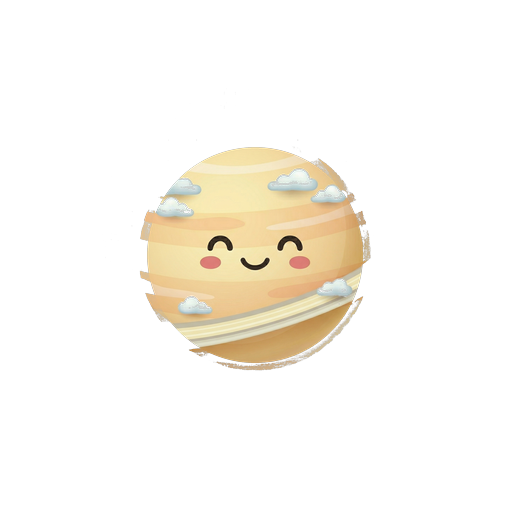
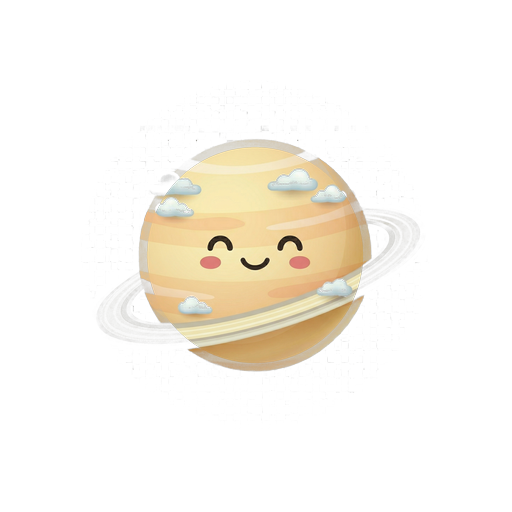
fix(assets): restore saturn and uranus rings via per-asset clean threshold
clean_image() was zeroing all pixels with alpha < 200, silently erasing
the semi-transparent ring structure on Saturn (alpha 3–12 beyond disc edge)
and Uranus (alpha 6–25). Introduced RINGED_PLANETS constant so bake_sprites
skips the alpha-scrub for these two assets while keeping threshold=200 for
all disc-only planets. Baked PNGs regenerated: saturn ~88KB→164KB, uranus
~83KB→146KB, confirming ring pixels are now preserved.

Fixes #293

diff --git a/frontend/scripts/bake_sprites.py b/frontend/scripts/bake_sprites.py
@@ -41,6 +41,11 @@ ASSETS_DIR = FRONTEND_DIR / "assets"
 # At runtime: ctx.drawImage(baked, cx-clipR, cy-clipR, clipR*2, clipR*2)
 HALF = 256  # half-size of each baked PNG (pixels)
 
+# Ringed planets have semi-transparent ring pixels (alpha 3–25) well beyond
+# the disc edge.  Skipping clean_image for these preserves the ring structure
+# without affecting disc-only assets.
+RINGED_PLANETS: frozenset[str] = frozenset({"saturn", "uranus"})
+
 THEMES = [
     {
         "id": "fruits",
@@ -61,21 +66,23 @@ THEMES = [
 # Helpers
 # ---------------------------------------------------------------------------
 
-def clean_image(img: Image.Image) -> Image.Image:
-    """Zero RGBA for pixels with alpha < 200 — mirrors runtime cleanImage().
+def clean_image(img: Image.Image, threshold: int = 200) -> Image.Image:
+    """Zero RGBA for pixels with alpha < threshold — mirrors runtime cleanImage().
 
     Scrubs JPEG compression halos and semi-transparent fringe so baked edges
-    stay crisp.  The saturn/uranus ring body pixels are fully opaque (alpha
-    255) and survive this threshold; only their feathered anti-alias edge
-    pixels are zeroed, which is acceptable.
+    stay crisp.  Pass threshold=0 for ringed planets (Saturn, Uranus) to
+    preserve their semi-transparent ring pixels, which have alpha values as
+    low as 3–25 well beyond the disc edge.
     """
+    if threshold == 0:
+        return img.convert("RGBA")
     img = img.convert("RGBA")
     pixels = img.load()
     w, h = img.size
     for y in range(h):
         for x in range(w):
             r, g, b, a = pixels[x, y]
-            if a < 200:
+            if a < threshold:
                 pixels[x, y] = (0, 0, 0, 0)
     return img
 
@@ -98,7 +105,7 @@ def sprite_clip_radius_norm(sprite: dict) -> float:
     )
 
 
-def bake_asset(src_png: pathlib.Path, sprite: dict, out_png: pathlib.Path) -> float:
+def bake_asset(src_png: pathlib.Path, sprite: dict, out_png: pathlib.Path, name: str = "") -> float:
     """
     Bake one asset PNG.
 
@@ -115,9 +122,12 @@ def bake_asset(src_png: pathlib.Path, sprite: dict, out_png: pathlib.Path) -> fl
     # So the baked clipR circle exactly fills the 512×512 canvas.
     scale = HALF / clip_r_norm
 
-    # 1. Load + clean source image
+    # 1. Load + clean source image.
+    # Ringed planets skip clean_image entirely so their semi-transparent ring
+    # pixels (alpha 3–25 beyond the disc edge) are preserved in the bake.
     src = Image.open(src_png).convert("RGBA")
-    src = clean_image(src)
+    clean_threshold = 0 if name in RINGED_PLANETS else 200
+    src = clean_image(src, threshold=clean_threshold)
 
     # 2. Compute where the sprite sits in the output canvas.
     #    Canvas centre = (HALF, HALF).
@@ -178,7 +188,7 @@ def main() -> None:
                 continue
 
             out_png: pathlib.Path = theme["out_dir"] / f"{name}.png"
-            clip_r = bake_asset(src_png, sprite, out_png)
+            clip_r = bake_asset(src_png, sprite, out_png, name=name)
             baked_clip_r[name] = clip_r
             print(f"  BAKED {name}: bakedClipR={clip_r:.6f}")
 
